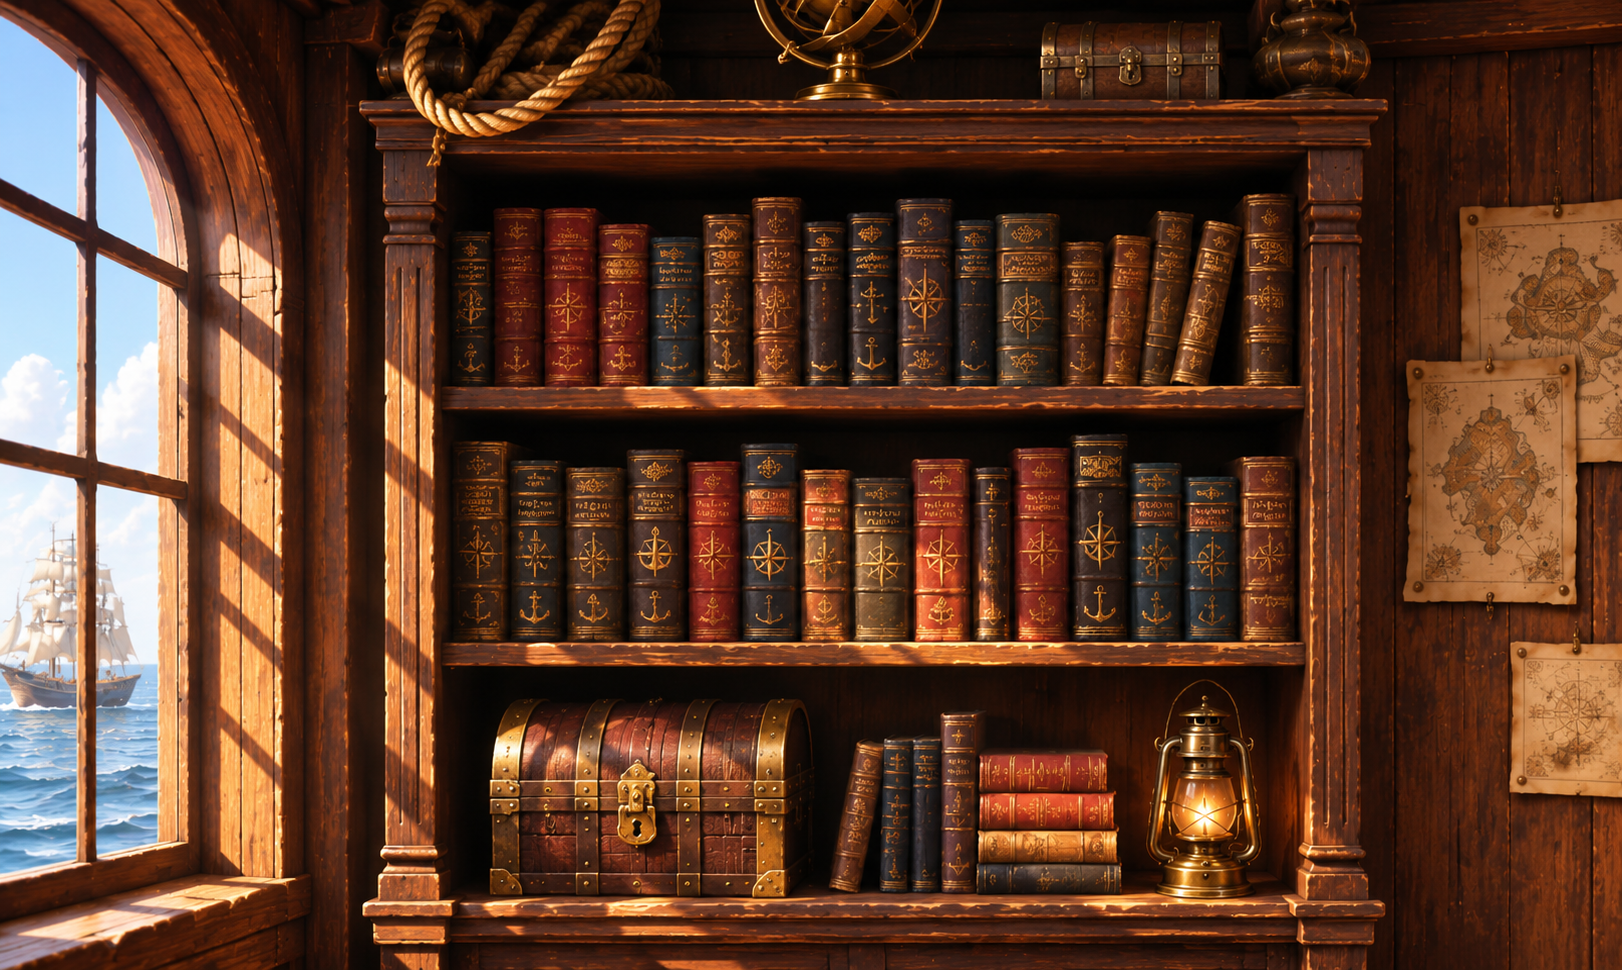
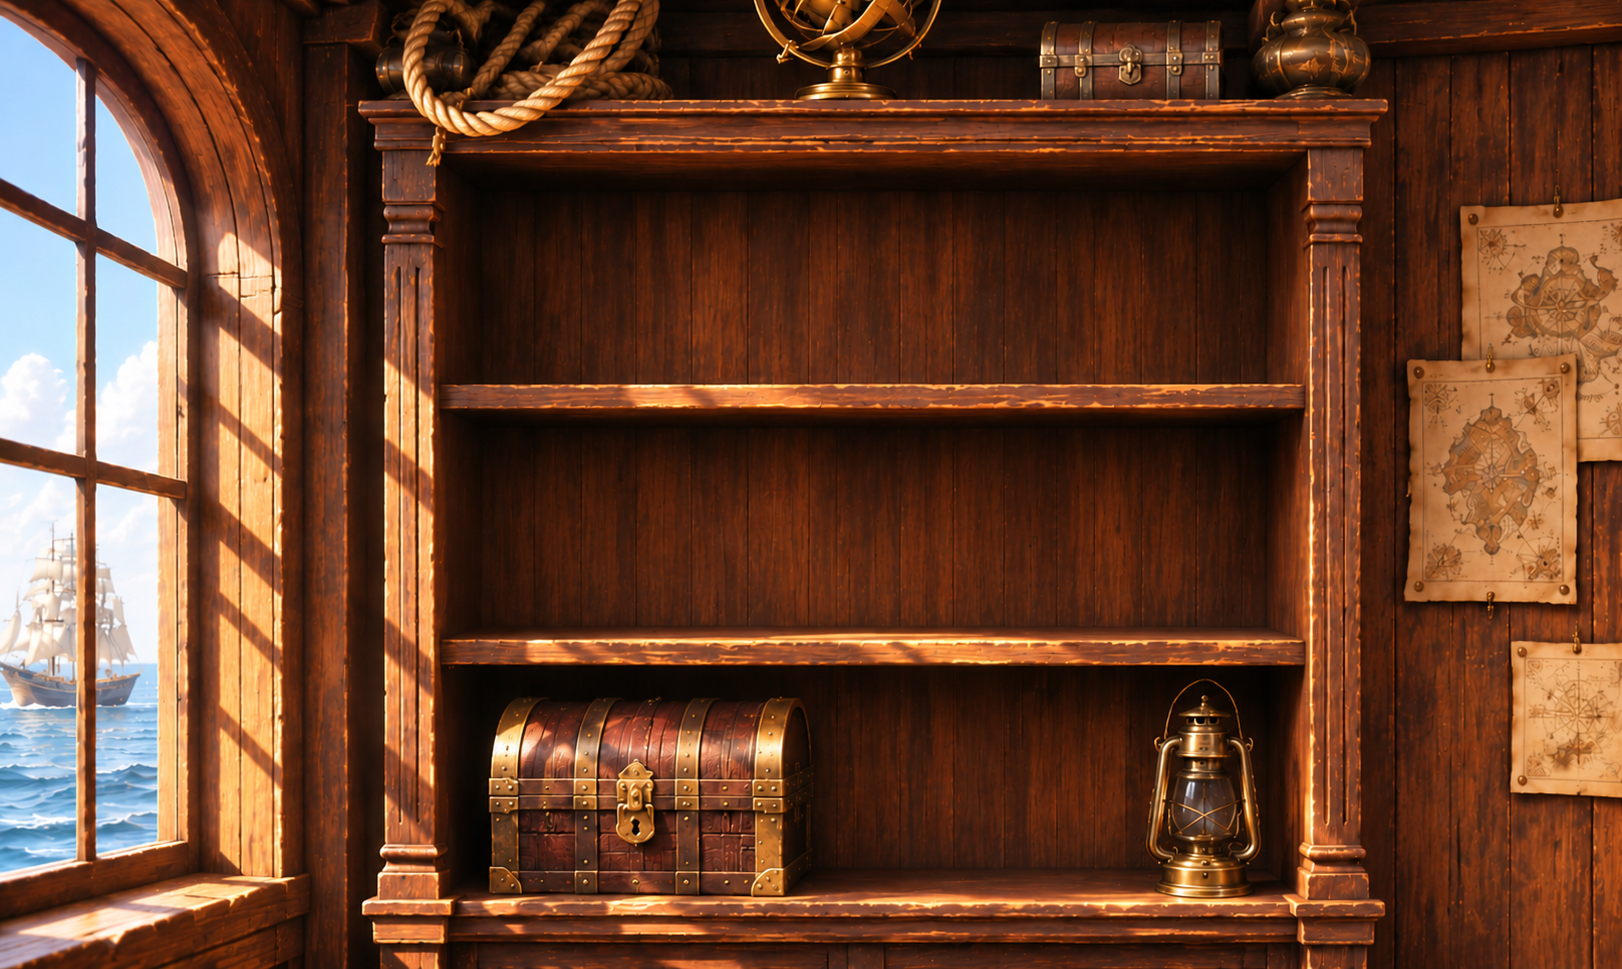
Update empty bookshelf backgrounds and book positions

diff --git a/bookshelf/index.html b/bookshelf/index.html
@@ -135,24 +135,13 @@
   <script>
     // x, y, w, h는 화면 크기에 대한 백분율이야.
     // 실제 책장 사진에 맞춰 조정해야 해.
-    const bookData = [
-  { name: "파란 책", file: "book-blue.png",
-    x: 32.5, y: 32.0, w: 2.7, h: 18.8 },
-
-  { name: "초록 책", file: "book-green.png",
-    x: 36.4, y: 32.0, w: 2.7, h: 18.8 },
-
-  { name: "보라 책", file: "book-purple.png",
-    x: 39.8, y: 24.0, w: 3.8, h: 24.5 },
-
-  { name: "갈색 책", file: "book-brown.png",
-    x: 44.3, y: 31.8, w: 2.7, h: 18.8 },
-
-  { name: "아쿠아 책", file: "book-aqua.png",
-    x: 48.2, y: 32.0, w: 2.7, h: 18.8 },
-
-  { name: "검정 책", file: "book-black.png",
-    x: 52.0, y: 32.0, w: 2.7, h: 18.8 }
+const bookData = [
+  { name: "파란 책", file: "book-blue.png", x: 29.2, y: 22.3, w: 3.5, h: 18.0 },
+  { name: "초록 책", file: "book-green.png", x: 33.4, y: 22.3, w: 3.5, h: 18.0 },
+  { name: "보라 책", file: "book-purple.png", x: 37.6, y: 22.3, w: 3.5, h: 18.0 },
+  { name: "갈색 책", file: "book-brown.png", x: 41.8, y: 22.3, w: 3.5, h: 18.0 },
+  { name: "아쿠아 책", file: "book-aqua.png", x: 46.0, y: 22.3, w: 3.5, h: 18.0 },
+  { name: "검정 책", file: "book-black.png", x: 50.2, y: 22.3, w: 3.5, h: 18.0 }
 ];
 
     const container = document.getElementById("books");
